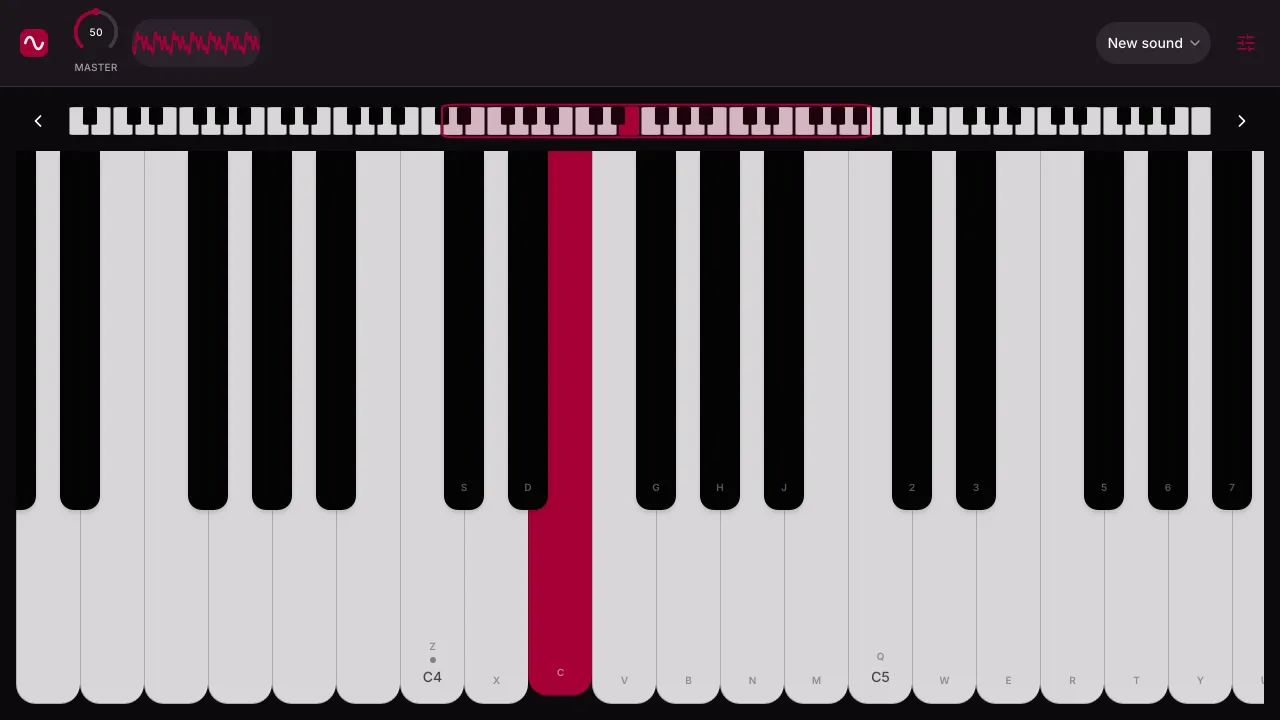
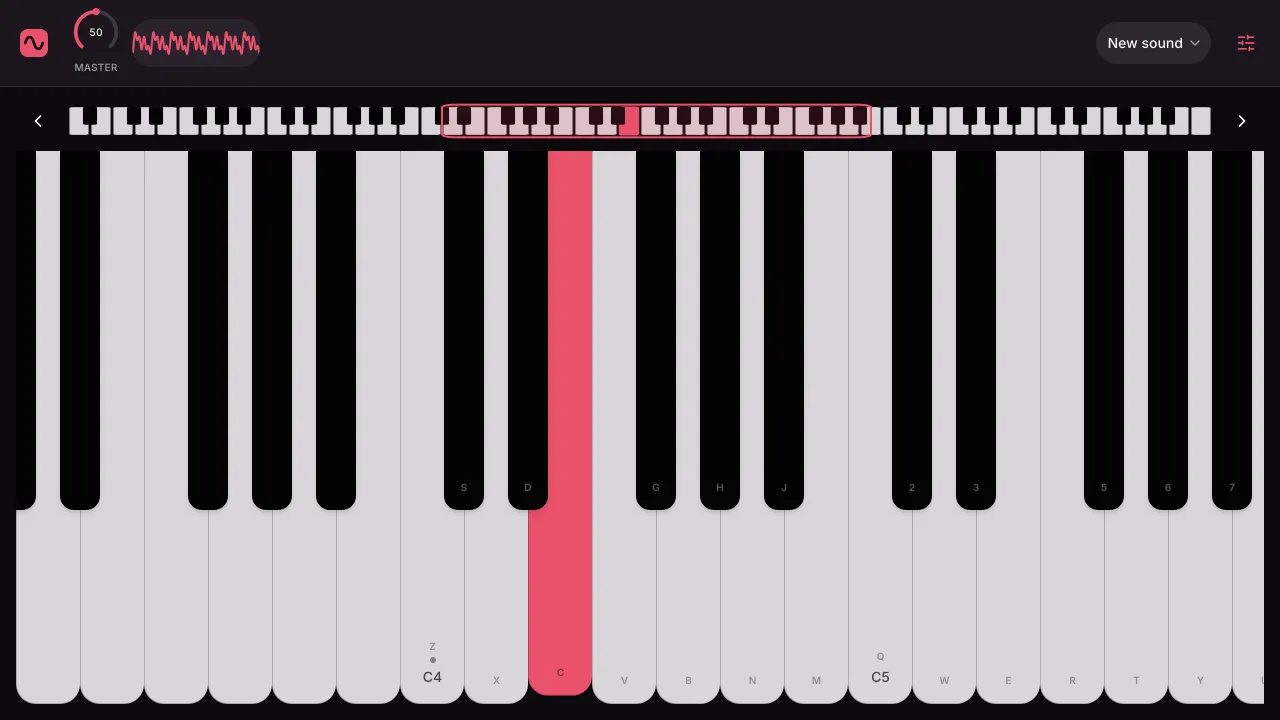
build(deps): update @kodentuzo/spotstrap to 0.1.1
Dark mode's primary is a lighter crimson with dark text on it, so it
also reads as text (5.7:1, was 2.5:1): the logo, the pressed key and
the selected waveform change in dark mode; screenshots recaptured.
shadcn's unprefixed variables now alias the theme's tokens (about
0.3 kB gzip of CSS). ADR 0025, the changelog and AGENTS.md follow.

diff --git a/docs/decisions/0025-theme-from-spotstrap.md b/docs/decisions/0025-theme-from-spotstrap.md
@@ -6,7 +6,7 @@ implementation: done
 date: 2026-11-19
 supersedes: [4]
 superseded_by: []
-notes: "Partly supersedes 0004: only its theme (the shadcn/ui preset's tokens in styles.css). React Aria, Tailwind v4, shadcn components in src/components/ui/ and tokens-only colours stay. @kodentuzo/spotstrap 0.1.0."
+notes: "Partly supersedes 0004: only its theme (the shadcn/ui preset's tokens in styles.css). React Aria, Tailwind v4, shadcn components in src/components/ui/ and tokens-only colours stay. @kodentuzo/spotstrap 0.1.0, then 0.1.1 (a lighter dark primary; shadcn's unprefixed variables aliased)."
 ---
 
 # Theme tokens from Spotstrap
@@ -35,22 +35,27 @@ theme with this app's colours, radius and font.
   chaining, the pointer cursor.
 - **Ours stays in `styles.css`:** the Inter `@font-face` rules and their fallback, the `short:`
   variant, the piano key tokens and the page transitions.
-- **Code reads `--color-*` variables**, never the unprefixed shadcn ones, which no longer exist.
+- **Code reads `--color-*` variables.** Since 0.1.1 Spotstrap aliases shadcn's unprefixed ones
+  (`--secondary`) for copied components, but ours use the theme's names.
 - The installed `@kodentuzo/spotstrap` is exempt from pnpm's one-day `minimumReleaseAge` (the
   owner's explicit exception: our own package, published from CI with provenance, needed the
   same day). `trustPolicy` still checks it.
 
 ## Consequences
 
-- The same colours, radii and font in both themes; body text is 17 px instead of 16 px, so the
-  app bar is a few pixels taller.
-- CSS grows from 10.30 to 12.53 kB gzip. Part of that is Spotstrap's component classes whose
-  names are ordinary words (`input`, `select`, `dialog`, `label`, `menu`, `tabs`, `switch`…):
+- The same colours, radii and font in both themes, except dark mode's primary: from 0.1.1 it is a
+  lighter crimson with dark text on it, so primary also reads as text (5.7:1, was 2.5:1). Body
+  text is 17 px instead of 16 px, so the app bar is a few pixels taller.
+- CSS grows from 10.30 to about 12.8 kB gzip (0.1.1's aliases add about 0.3 kB). Part of that
+  is Spotstrap's component classes whose names are ordinary words (`input`, `select`, `dialog`, `label`, `menu`, `tabs`, `switch`…):
   Tailwind generates them whenever the word appears in `src/`, used or not.
 - shadcn's `data-*` variants (`data-selected:`, `data-disabled:`) fall back to Tailwind's own,
   which match React Aria's attributes.
-- `pnpm exec shadcn add` still works (`components.json` is unchanged), but a new component may
-  read unprefixed variables or add a theme block to `styles.css`; switch it to `--color-*` and
-  drop the block.
+- `pnpm exec shadcn add` still works (`components.json` is unchanged), but the CLI may add a theme
+  block to `styles.css`; drop it. Unprefixed variables in a new component work through the
+  aliases; prefer `--color-*`.
+- In dark mode, primary (oklch 0.65 0.188 13.7) and destructive (0.704 0.191 22.2) are close in
+  hue and lightness. The app shows no destructive control today; one next to a primary needs more
+  than colour to tell them apart.
 - Moving the buttons and other controls onto Spotstrap's classes (`btn`, `field`, `menu`…) is
   later work.

diff --git a/AGENTS.md b/AGENTS.md
@@ -196,8 +196,8 @@ pnpm fix        # Biome: apply formatting and safe fixes
 
 ## Styling
 
-- Use theme tokens (`bg-background`, `text-primary`, `border-border`…), never raw colors, so light and dark both work. Colors change in Spotstrap's `vinskiano` theme, not here. In CSS or arbitrary values, read `var(--color-primary)`; the unprefixed shadcn variables (`--primary`) don't exist.
-- Add shadcn/ui components with `pnpm exec shadcn add <name>` (the pinned CLI, React Aria base). They land in `src/components/ui/`; edit them freely after adding. If one reads unprefixed variables (`var(--secondary)`) or the CLI adds a theme block to `styles.css`, switch it to `--color-*` and drop the block.
+- Use theme tokens (`bg-background`, `text-primary`, `border-border`…), never raw colors, so light and dark both work. Colors change in Spotstrap's `vinskiano` theme, not here. In CSS or arbitrary values, read `var(--color-primary)`; the unprefixed shadcn variables (`--primary`) are only aliases for copied components.
+- Add shadcn/ui components with `pnpm exec shadcn add <name>` (the pinned CLI, React Aria base). They land in `src/components/ui/`; edit them freely after adding. If the CLI adds a theme block to `styles.css`, drop it; prefer `--color-*` over the unprefixed variables in new code.
 - `@/` is an alias for `src/`. Merge classes with `cn()` from `@/lib/utils` (in the app; see below for the site).
 - Tailwind only scans `src/` for class names (`source(".")` in `styles.css`). Classes written anywhere else (docs, skills, tests) are not generated; keep class names in `src/` as complete literal strings.
 - Piano keys use their own tokens (`bg-key-white`, `bg-key-black`, …) so they stay ivory/ebony in dark mode.

diff --git a/CHANGELOG.md b/CHANGELOG.md
@@ -17,7 +17,7 @@ Each release is a git tag `vX.Y.Z`, published as the Docker image `vindotski/vin
 - `@spotcraft/kit` 0.4.0 does the server's guest and database work: the guest helpers, the client address for the limit on new guests, the migration runner and the start-up check. Nothing changes for visitors or in the database: the same rules, the same `app_migrations` table and lock
 - The kit has its own version now; it no longer has to match Spotcraft's (Spotcraft 0.5)
 - docs/deploy.md describes Spotcraft 0.5: DNS through the dashboard, releases without downtime, the deploy hook and backups
-- The theme comes from Spotstrap (`@kodentuzo/spotstrap`, its `vinskiano` theme) instead of a copied shadcn/ui preset: the same colours in light and dark, and body text at 17 px instead of 16 px, so the app bar is a few pixels taller. The stylesheet is 2.2 kB gzip bigger ([ADR 0025](docs/decisions/0025-theme-from-spotstrap.md))
+- The theme comes from Spotstrap (`@kodentuzo/spotstrap`, its `vinskiano` theme) instead of a copied shadcn/ui preset (Spotstrap 0.1.1). Light mode looks the same; in dark mode the crimson is lighter, with dark text on it (the logo, the pressed key, the selected waveform), so it also reads as text. Body text is 17 px instead of 16 px, so the app bar is a few pixels taller. The stylesheet is 2.5 kB gzip bigger ([ADR 0025](docs/decisions/0025-theme-from-spotstrap.md))
 
 ### Removed
 
